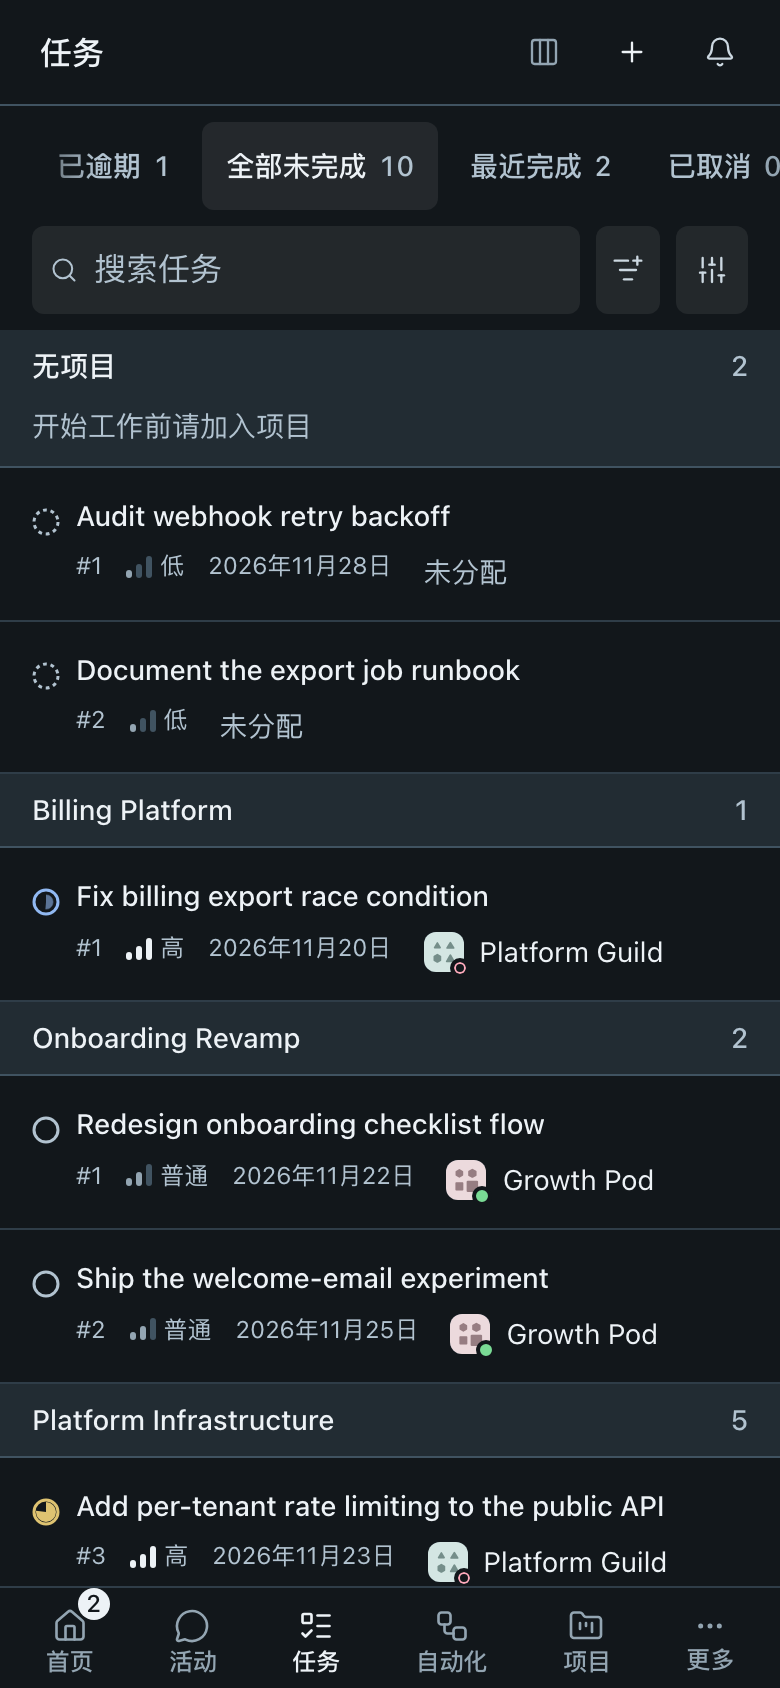
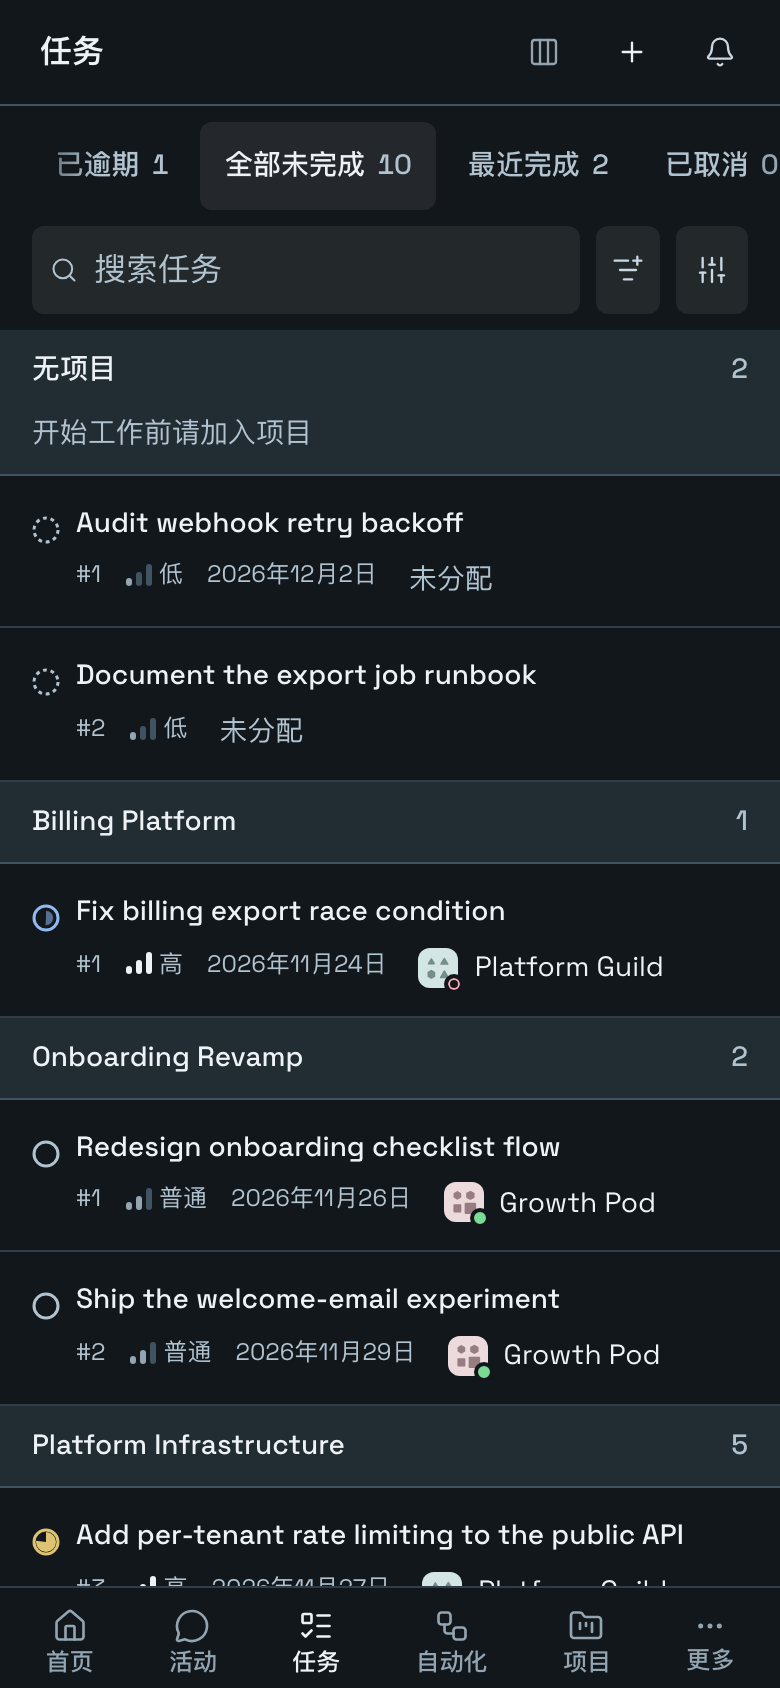
fix(web): clarify Cool Mist task grouping and selection

diff --git a/web/src/styles/backlog-list.css b/web/src/styles/backlog-list.css
@@ -590,27 +590,23 @@ button.inline-field[aria-expanded="true"] {
    selector, not .backlog-row: routine rows carry data-selected too. */
 tr[data-selected="true"] {
   background: var(--action-soft);
-  --agent-pip-surface: color-mix(in srgb, var(--action) var(--agent-pip-selection-strength, 8%), var(--surface-0));
+  --agent-pip-surface: color-mix(in srgb, var(--action) var(--selection-wash-strength, 8%), var(--surface-0));
 }
 
 /* The accent bar used to be an ::after on a position:relative flex row; a
    <tr> is not a reliable positioning context, so the bar is an inset shadow
    on the leading cell instead — same stripe, same inset. */
 tr[data-selected="true"] > td:first-child {
-  box-shadow: inset var(--accent-bar-w) 0 0 var(--signature);
+  box-shadow: var(--accent-bar);
 }
 
-/* A card is the one selectable object that keeps a ring instead of the bar:
-   it floats on the lane as a bordered tile, and a leading bar inset from a
-   card's rounded edge reads as a stray stripe. It takes the same
-   --action-soft selection wash as the rails and the table rows, and the
-   action-coloured edge stands in for the bar — wash + edge, the rail
-   contract translated to a card. */
+/* Keep the card's plane under the wash so the tile and its avatar cutout
+   stay above the lane. Use the same selection marker as the list view. */
 .backlog-task[data-selected="true"] {
-  background: var(--action-soft);
-  --agent-pip-surface: color-mix(in srgb, var(--action) var(--agent-pip-selection-strength, 8%), var(--surface-0));
-  border-color: var(--action);
-  box-shadow: inset 0 0 0 var(--sp-hairline) var(--action);
+  --selected-card-surface: color-mix(in srgb, var(--action) var(--selection-wash-strength, 8%), var(--surface-1));
+  --agent-pip-surface: var(--selected-card-surface);
+  background: var(--selected-card-surface);
+  box-shadow: var(--accent-bar);
 }
 
 /* Floating, not docked into the page header: the header keeps its create and
@@ -982,5 +978,5 @@ tr[data-selected="true"] > td:first-child {
 }
 
 html[data-theme="light"] :is(tr[data-selected], .backlog-task) {
-  --agent-pip-selection-strength: 6%;
+  --selection-wash-strength: 6%;
 }

diff --git a/web/src/styles/issues.css b/web/src/styles/issues.css
@@ -17,11 +17,7 @@
   z-index: 1;
   padding: var(--sp-2) var(--sp-3);
   border-bottom: var(--hairline-soft);
-  background: var(--surface-0);
-}
-
-.issues-group + .issues-group .issues-band > td {
-  padding-top: var(--sp-5);
+  background: var(--surface-band);
 }
 
 .issues-band { --row-accent: var(--ink-3); }
@@ -73,15 +69,11 @@
 @media (max-width: 820px) {
   .issue-col-project { display: none; }
 
-  /* Linear's group header: a full-bleed, quietly filled band that names the
-     group. The rule under a transparent band read as one more row divider,
-     and the desktop's section rung above every later band doubled its
-     height. Through the table so it outranks the cell padding in
-     backlog-list.css. */
+  /* The full-bleed band needs less padding on phones. Scope the override to
+     the table so it outranks the cell padding in backlog-list.css. */
   .task-table .issues-band > td[data-slot="table-cell"] {
     padding: var(--sp-2) var(--sp-4);
     border-bottom: 0;
-    background: var(--surface-band);
   }
 
   /* Project names can be much longer than a phone row. Keep the whole

diff --git a/web/src/styles/tokens/palette.css b/web/src/styles/tokens/palette.css
@@ -82,7 +82,7 @@
      literals, so a role that differs by register stays a literal. */
   --surface-rail: #222c33;
   --surface-list: #1c242a;
-  /* A phone list's group band: one step off the page it sits on. */
+  /* Group and lane headers sit one step off the canvas. */
   --surface-band: #222c33;
 
   /* Ink — every tier that can carry TEXT clears WCAG 1.4.3 (4.5:1) against
@@ -834,8 +834,8 @@ html[data-theme="light"] {
   /* Navigation recedes through two subtle neutral-grey steps. */
   --surface-rail: #e1e8ed;
   --surface-list: #f6f9fa;
-  /* Group bands sit below the near-white list plane. */
-  --surface-band: #edf2f5;
+  /* Group and lane headers are a recessed plane on the light canvas. */
+  --surface-band: #dee7ed;
 
   /* Neutral text; every tier clears AA on the recessed fill. */
   --ink-1: #141f27; /* blue-charcoal ink */

diff --git a/web/src/styles/backlog.css b/web/src/styles/backlog.css
@@ -242,7 +242,7 @@
   gap: var(--sp-2);
   padding: var(--sp-3) var(--sp-4);
   border-bottom: var(--hairline-soft);
-  background: var(--surface-0);
+  background: var(--surface-band);
 }
 
 /* No colored lane rail: the status icon, the label and the count sit together

diff --git a/docs/design-system.md b/docs/design-system.md
@@ -144,7 +144,7 @@ Dark register / light register, matching `palette.css`:
 | `--surface-3` | `#2b3842` | `#ffffff` | floating surfaces |
 | `--surface-rail` | `#222c33` | `#e1e8ed` | navigation rail |
 | `--surface-list` | `#1c242a` | `#f6f9fa` | list pane |
-| `--surface-band` | `#222c33` | `#edf2f5` | group bands |
+| `--surface-band` | `#222c33` | `#dee7ed` | group bands and Task board lane headers |
 | `--ink-1` | `#edf2f6` | `#141f27` | headings and emphasis |
 | `--ink-2` | `#ccd8e1` | `#33424c` | body |
 | `--ink-3` | `#b2c3d0` | `#4c5c66` | secondary labels and neutral notices |
